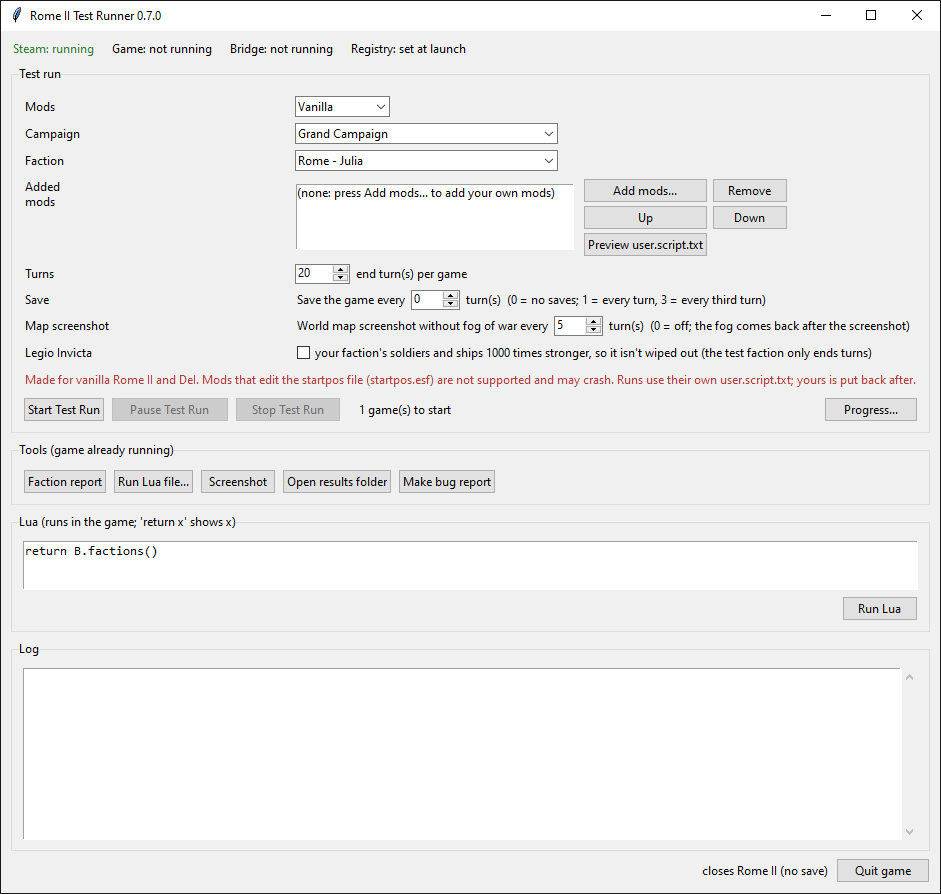
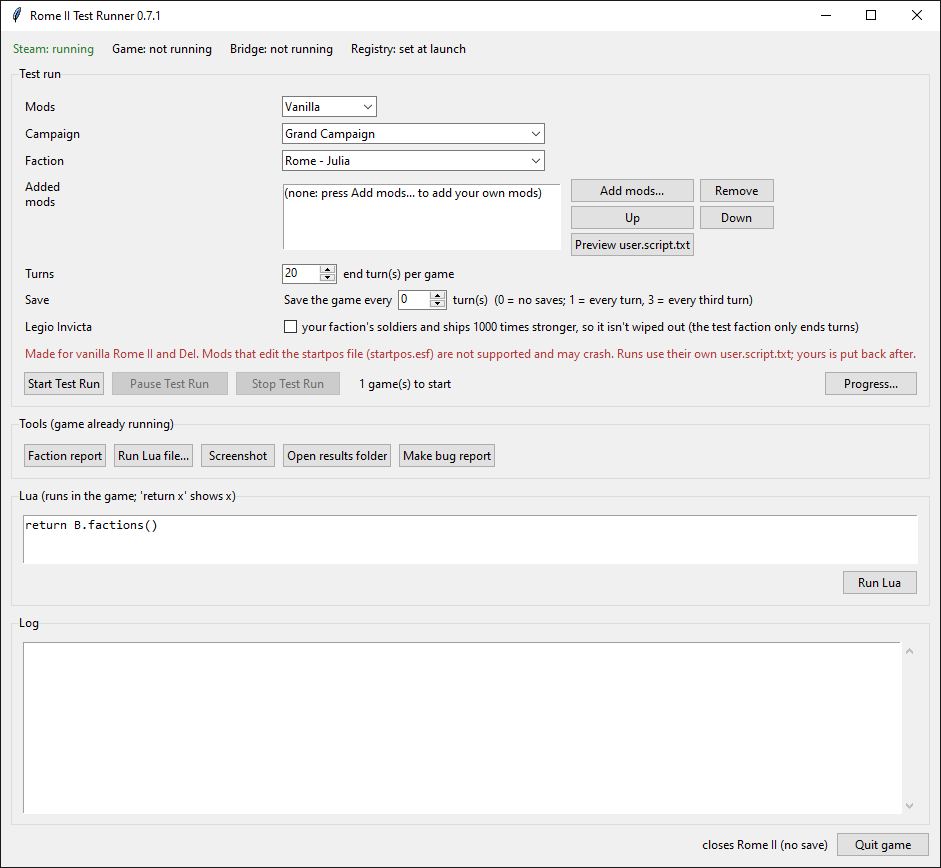
Rome II Test Runner 0.7.1: new screenshots (drawn map), README and version

diff --git a/rome2bridge/__init__.py b/rome2bridge/__init__.py
@@ -15,4 +15,4 @@ from .config import Config, load_config, find_game_dir
 from .core import Bridge, BridgeError, PRESETS, lua_str
 
 __all__ = ["Bridge", "BridgeError", "Config", "load_config", "find_game_dir", "PRESETS", "lua_str"]
-__version__ = "0.7.0"
+__version__ = "0.7.1"

diff --git a/README.md b/README.md
@@ -13,15 +13,16 @@ one `.exe`.
 
 ## Screenshots
 
-**Progress window:** DeI, Rome in the Grand Campaign with Legio Invicta, world map every 5 turns. Pick a turn on
-the left, see the map and every faction's numbers (change since the last map turn in brackets).
+**Progress window:** DeI, Ebdani (Ireland) in the Grand Campaign with Legio Invicta. Pick any turn on the left: the
+map of who owns what (your faction outlined in white, the faction clicked in the table in yellow, here Rome) and
+every faction's numbers (change since the turn before in brackets).
 
 ![Progress window](docs/images/progress_window.png)
 
 <details>
-<summary>World map without fog of war (turn 16)</summary>
+<summary>The drawn map at full size (turn 5)</summary>
 
-![World map without fog of war](docs/images/world_map_no_fog.png)
+![Drawn map](docs/images/drawn_map.png)
 
 </details>
 
